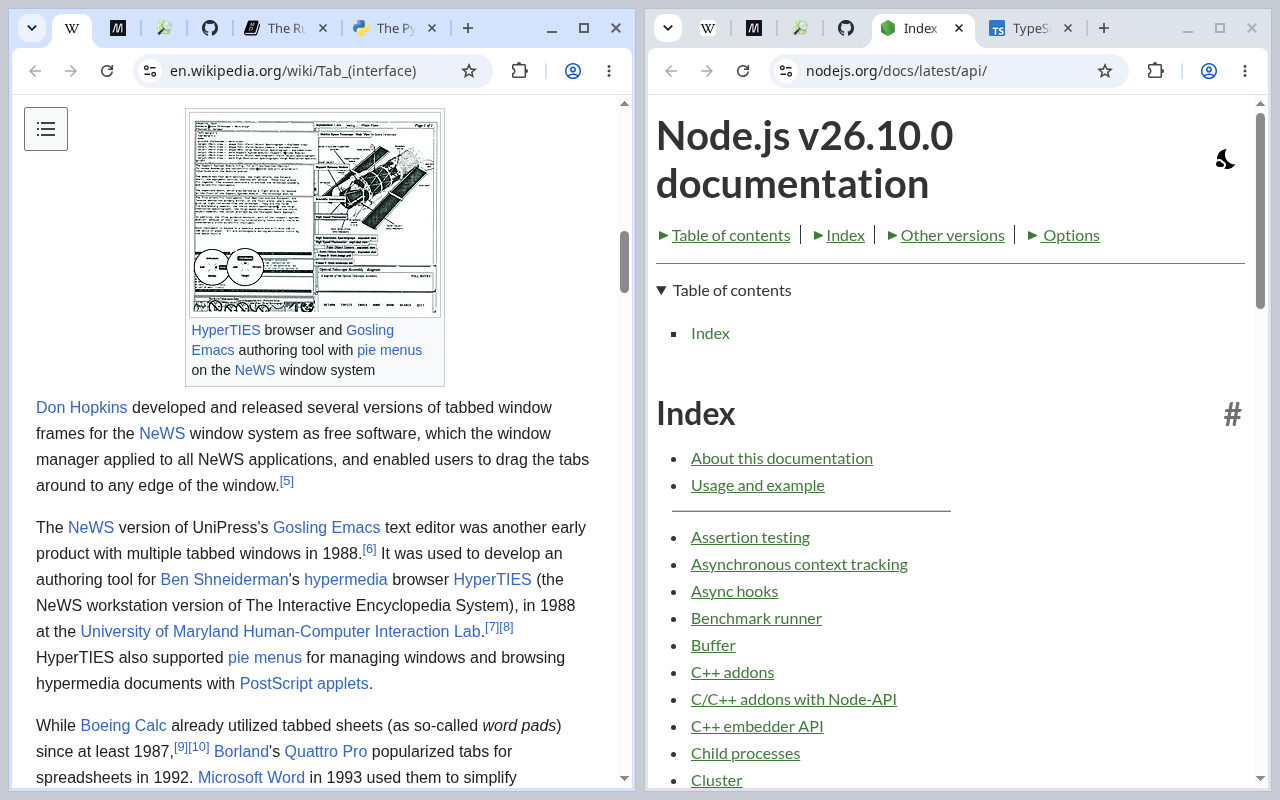
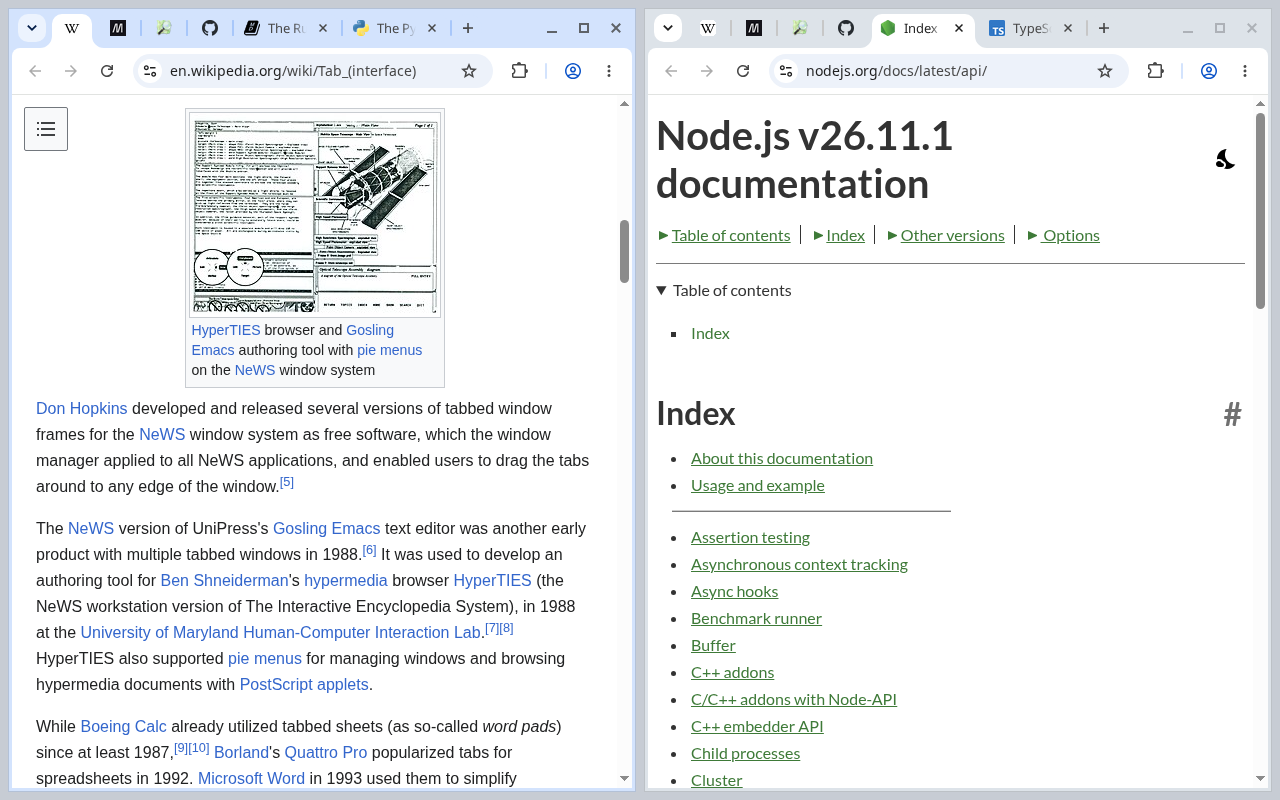
Capture a promo video and a third store screenshot showing pinning, closing and unpinning

diff --git a/store/listing.md b/store/listing.md
@@ -9,7 +9,8 @@ Fields as the developer dashboard asks for them. The package is the release zip
 - Category: Tools
 - Language: English
 - Store icon: icons/icon-128.png
-- Screenshots: store/screenshot-1.png, store/screenshot-2.png
+- Screenshots: store/screenshot-1.png, store/screenshot-2.png, store/screenshot-3.png
+- Promo video: dist/promo.mp4 from scripts/capture-store-assets.sh, uploaded to YouTube and linked here
 - Small promo tile: store/promo-small-440x280.png
 - Homepage: https://github.com/nanbiz/synced-pins
 - Support: https://github.com/nanbiz/synced-pins/issues
